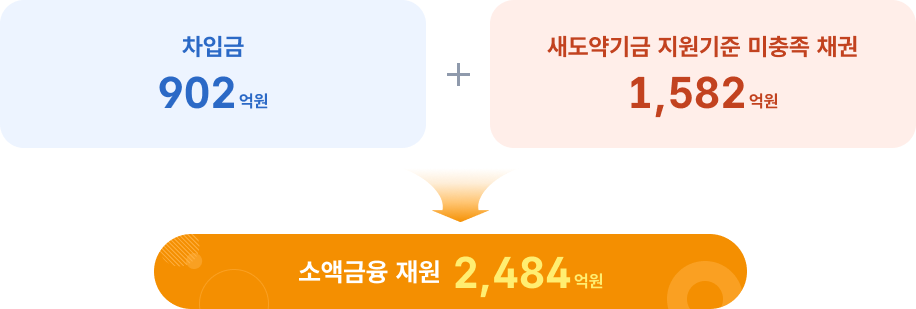
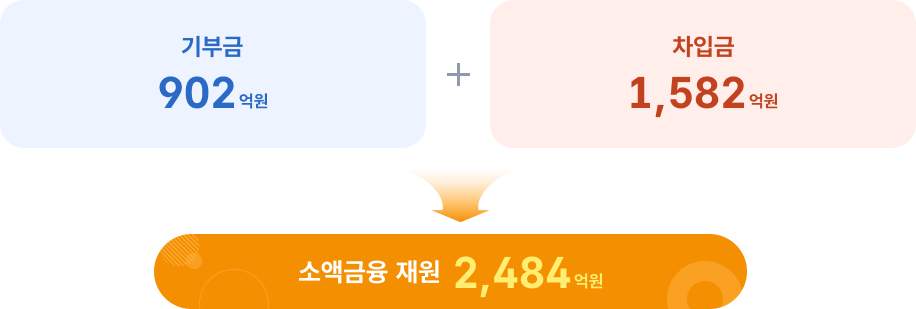
반경반영

Changed region(s): [[0.5808, 0.1165, 0.9476, 0.2039], [0.1834, 0.1165, 0.2751, 0.2039]]

diff --git a/html/금융과생활소개.html b/html/금융과생활소개.html
@@ -142,7 +142,7 @@
                                     </div>
                                     <div class="g-wrap">
                                         <h3 class="section-title">내 신용, 어떻게 관리할까요?</h3>
-                                        <p class="mt20">신용점수 관리방법, 신용진단, 신용점수 올리기 등 신용과 관련된 전문가와의 컨설팅 상담과 영세 소상공인 대상의 역량강화 컨설팅 상담을 받아보실 수 있습니다.</p>
+                                        <p class="mt20">신용점수 관리방법, 신용진단, 신용점수 올리기 등 신용과 관련된 전문가와의 컨설팅</p>
                                         <a href="#" onclick="goToPage('신용복지컨설팅.html')" target="_blank" title="새창열림"
                                             class="krds-btn medium btn-blue shadow mt20">
                                             컨설팅 지원 알아보기
@@ -152,8 +152,8 @@
                                 </div>
                                 <div class="g-flex mt60">
                                     <div class="g-wrap">
-                                        <h3 class="section-title">신용에 대해 더 알고싶어요.</h3>
-                                        <p class="mt20">가계부 관리 방법, 신용관리 잘하는 방법, 행복한 소비를 하는 방법 등 연령과 상황에 맞는 금융교육을 받아보실 수 있습니다.</p>
+                                        <h3 class="section-title">신용교육이 필요해요.</h3>
+                                        <p class="mt20">가계부 작성 방법, 신용관리 잘하는 방법, 행복한 소비를 하는 방법 등 연령과 상황에 맞는 금융교육을 받아보실 수 있습니다.</p>
                                         <a href="#" onclick="goToPage('신용교육프로그램신청_신용교육소개.html')" target="_blank" title="새창열림"
                                             class="krds-btn medium btn-blue shadow mt20">
                                             신용교육 알아보기
@@ -170,7 +170,7 @@
                                     </div>
                                     <div class="g-wrap">
                                         <h3 class="section-title">불법사금융으로 피해를 입었어요.</h3>
-                                        <p class="mt20">불법사금융에 대해 알아보며 피해를 사전에 예방하고, 이미 피해를 입었다면 불법사금융 구제신청을 할 수 있습니다.</p>
+                                        <p class="mt20">피해를 사전에 예방하고, 이미 피해를 입었다면 불법사금융 구제신청을 할 수 있습니다.</p>
                                         <a href="#" onclick="goToPage('불법사금융알아보기_예방가이드.html')" target="_blank" title="새창열림"
                                             class="krds-btn medium btn-blue shadow mt20">
                                             불법사금융 알아보기

diff --git a/html/소액대출_제도소개.html b/html/소액대출_제도소개.html
@@ -192,7 +192,7 @@
                                                     <div class="g-conts-area sm">
                                                         <div class="g-img-wrap">
                                                             <div class="g-img"><img
-                                                                    src="/type/www/images/img/debt_content01.png?ver=3.2"
+                                                                    src="/type/www/images/img/debt_content01.png?ver=3.3"
                                                                     alt="컨텐츠">
                                                             </div>
                                                         </div>
@@ -213,7 +213,7 @@
                                                 aria-labelledby="accordionHeaderSample01">
                                                 <div class="accordion-body">
                                                     <div class="conts-desc">
-                                                        <h3 class="bullet"><strong>어디서 기부받아 어떻게 사용됐나요?</strong></h3>
+                                                        <h3 class="bullet"><strong>어디에서 기부했나요?</strong></h3>
                                                     </div>
                                                     <div class="conts-desc">
                                                         <div class="g-img mt10">
@@ -403,8 +403,6 @@
                                                                 data-target="modal_sample15">제주특별자치도 혼디론
                                                                 <div class="map-pin"></div>
                                                             </a>
-                                                            <a href="#" class="positionbtn posbtn16 open-modal"
-                                                                data-target="modal_sample16">신용카드 사랑가득론</a>
                                                         </div>
                                                     </div>
                                                 </div>
@@ -691,7 +689,7 @@
                                 <div class="conts-desc roundcheck">
                                     <ul class="krds-info-list decimal" role="list">
                                         <li class="" role="listitem">
-                                            안천광역시 거주자로서 채무조정을 지원받아 6개월 이상 변제 계획을 성실하게 이행하고 있거나 최근 3년 이내 이행을 완료한 자
+                                            인천광역시 거주자로서 채무조정을 지원받아 6개월 이상 변제 계획을 성실하게 이행하고 있거나 최근 3년 이내 이행을 완료한 자
                                         </li>
                                     </ul>
                                 </div>

diff --git a/html/소액대출_특별상품.html b/html/소액대출_특별상품.html
@@ -201,7 +201,7 @@
                                                                         </thead>
                                                                         <tbody>
                                                                             <tr>
-                                                                                <td class="ac">운영자금</td>
+                                                                                <td class="ac">생활안정자금</td>
                                                                                 <td class="ac">
                                                                                     1,500만원 이내
                                                                                 </td>
@@ -232,7 +232,7 @@
                                                                                 <td class="ac">3~4%</td>
                                                                                 <td class="ac">5년 이내 분할상환</td>
                                                                             <tr>
-                                                                                <td class="ac">생활안전자금</td>
+                                                                                <td class="ac">운영자금</td>
                                                                                 <td class="ac">
                                                                                     1,500만원 이내
                                                                                 </td>
@@ -244,7 +244,7 @@
                                                                 </div>
                                                                 <p class="noti">
                                                                     <i class="svg-icon ico-information-fill"></i>
-                                                                    새도약론 대출은 3년간 한시적으로 운영됩니다.
+                                                                    새도약론 대출은 ‘28년 10월까지 한시적으로 운영됩니다.
                                                                 </p>
                                                                 
 

diff --git a/html/소상공인맞춤형컨설팅.html b/html/소상공인맞춤형컨설팅.html
@@ -139,18 +139,9 @@
                                             aria-labelledby="accordionHeaderSample01">
                                             <div class="accordion-body">
                                                 <!-- accordion contents -->
-                                                <div class="conts-desc roundcheck">
-                                                    <b>다음 요건을 모두 충족하는 자</b>
-                                                    <ul class="krds-info-list decimal">
-                                                        <li role="listitem">
-                                                            신용회복위원회 개인채무조정을 이용 중인 소상공인(서울·경기·인천 소재)
-                                                            <ul class="krds-info-list dash" role="list">
-                                                                <li role="listitem">
-                                                                   본인 명의의 사업자 관련 서류(사업자등록증명원, 폐업사실증명원 등) 발급이 가능해야 함 
-                                                                </li>
-                                                            </ul>
-                                                        </li>
-                                                    </ul>
+                                                <div class="conts-desc">
+                                                    <p class="ptext">신용회복위원회 채무조정을 이용 중인 소상공인(서울·경기·인천 소재)</p>
+                                                    <p class="orange-info">본인 명의의 사업자 관련 서류(사업자등록증명원, 폐업사실증명원 등) 발급이 가능해야 합니다.</p>
                                                 </div>
                                                 <!-- //accordion contents -->
                                             </div>

diff --git a/html/신용복지컨설팅.html b/html/신용복지컨설팅.html
@@ -109,7 +109,7 @@
                         <!-- Content Sections -->
                         <div class="content-sections">
                             <div class="page-description bgBlue">
-                                <p>신용점수 관리방법, 신용진단, 신용점수 올리기 등<br> 신용과 관련된 전문가와의 컨설팅 상담을 받아보실 수 있습니다.</p>
+                                <p>신용점수 관리방법, 신용진단, 신용점수 올리기 등<br> 신용과 관련된 전문가와 컨설팅 상담을 받아보실 수 있습니다.</p>
                             </div>
                             <div class="tab fill full">
                                 <ul role="tablist">
@@ -131,9 +131,9 @@
                             <div class="g-wrap">
                                 <div class="g-grid-wrap unitrow">
                                     <a href="신용비타민.html" target="_blank" title="새창열림" class="g-img">
-                                        <img src="/type/www/images/img/신용복지컨설팅_신용비타민.png?ver=3.2" alt="">
+                                        <img src="/type/www/images/img/신용복지컨설팅_신용비타민.png?ver=3.3" alt="">
                                     </a>
-                                    <img class="g-img" src="/type/www/images/img/신용복지컨설팅_신용도우미.png?ver=3.2" alt="">
+                                    <img class="g-img" src="/type/www/images/img/신용복지컨설팅_신용도우미.png?ver=3.3" alt="">
                                 </div>
                                 <a href="https://cyber.ccrs.or.kr/deepLink/Tfdhg32QDZ.do" target="_blank" title="새창열림" class="g-img mt20">
                                     <img src="/type/www/images/img/신용복지컨설팅_상단.png?ver=3.2" alt="">

diff --git a/html/main.html b/html/main.html
@@ -71,6 +71,7 @@
 												<div class="tit">
 													<span>삶이 무너졌을 때</span>
 													<strong>다시 일어설 수 <br>있도록 함께</strong>
+													<span style="margin-top: 10px;font-size: 18px;">처음 오신 분이라면<br>채무조정제도를 알려드립니다.</span>
 												</div>
 											</div>
 											<div class="slide-img">
@@ -214,12 +215,12 @@
 								<div class="bottom-section-box consulting-section">
 									<img src="/type/www/images/main/bottom-img-01.png?ver=3.2" alt="">
 									<div style="display: flex;flex-direction: column;">
-										<a href="#">
+										<div>
 											<div style="display: flex; align-items: center;gap: 10px;">
 												<h2 class="bottom-section-box-title">컨설팅 지원</h2>
 												<p class="bottom-section-box-subtitle">종합적인 컨설팅을 받아보고 싶어요.</p>
 											</div>
-										</a>
+										</div>
 										<div class="arrow-buttons">
 											<button type="button" onclick="goToPage('신용복지컨설팅.html')" class="arrow-btn">
 												<span>신용복지컨설팅</span><i class="las la-arrow-right"></i>
